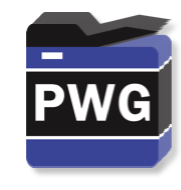
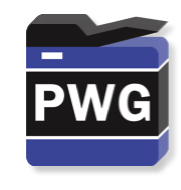
Start of changes to self-certification.
Update logos.

Update IPP pages.

Update HP company name on members page.

diff --git a/ipp/index.html b/ipp/index.html
@@ -27,7 +27,9 @@
     </ul>
 
     <h2><a name="MINUTES">Conference Call and Meeting Minutes</a></h2>
-    <p class="PWGList"><a href="http://ftp.pwg.org/pub/pwg/ipp/minutes/ippv2-concall-minutes-20150921.pdf">September 21, 2015</a>
+    <p class="PWGList"><a href="http://ftp.pwg.org/pub/pwg/ipp/minutes/ippv2-concall-minutes-20151005.pdf">October 5, 2015</a>
+    &middot;
+    <a href="http://ftp.pwg.org/pub/pwg/ipp/minutes/ippv2-concall-minutes-20150921.pdf">September 21, 2015</a>
     &middot;
     <a href="http://ftp.pwg.org/pub/pwg/ipp/minutes/ippv2-concall-minutes-20150831.pdf">August 31, 2015</a>
     &middot;
@@ -113,7 +115,7 @@
     <h3>Drafts</h3>
     <p><a href="http://ftp.pwg.org/pub/pwg/ipp/wd/wd-ipp20-20150922-rev.pdf">IPP 2.0, 2.1, and 2.2 (September 22, 2015)</a><br>
     &nbsp;&nbsp;&nbsp;&nbsp;<a href="http://ftp.pwg.org/pub/pwg/ipp/wd/lcrc-ipp20.txt">Last Call Comments</a><br>
-    <a href="http://ftp.pwg.org/pub/pwg/ipp/wd/wd-ippeveselfcert10-20150415-rev.pdf">IPP Everywhere Self-Certification Manual 1.0 (April 15, 2015)</a><br>
+    <a href="http://ftp.pwg.org/pub/pwg/ipp/wd/wd-ippeveselfcert10-20151009-rev.pdf">IPP Everywhere Self-Certification Manual 1.0 (October 9, 2015)</a><br>
 <!--    &nbsp;&nbsp;&nbsp;&nbsp;<a href="http://ftp.pwg.org/pub/pwg/ipp/wd/sw-ippeveselfcert10-20140826-osx.dmg">BETA Tools for Mac OS X 10.9</a><br>
     &nbsp;&nbsp;&nbsp;&nbsp;<a href="http://ftp.pwg.org/pub/pwg/ipp/wd/sw-ippeveselfcert10-20140826-rhel.tar.gz">BETA Tools for Red Hat Enterprise Linux 7 (64-bit Intel)</a><br>
     &nbsp;&nbsp;&nbsp;&nbsp;<a href="http://ftp.pwg.org/pub/pwg/ipp/wd/sw-ippeveselfcert10-20140826-ubuntu.tar.gz">BETA Tools for Ubuntu 14.04 LTS (64-bit)</a><br>
@@ -169,7 +171,7 @@
     <a href="http://tools.ietf.org/html/rfc2568">RFC 2568</a>: Rational for the Structure of the Model and Protocol for the Internet Printing Protocol<br>
     <a href="http://tools.ietf.org/html/rfc2569">RFC 2569</a>: Mapping between LPD and IPP Protocols<br>
     <a href="http://tools.ietf.org/html/rfc2616">RFC 2616</a>: Hypertext Transfer Protocol -- HTTP/1.1 (replaced by RFC 723x)<br>
-    <a href="http://tools.ietf.org/html/rfc2617">RFC 2617</a>: HTTP Authentication: Basic and Digest Access Authentication<br>
+    <a href="http://tools.ietf.org/html/rfc2617">RFC 2617</a>: HTTP Authentication: Basic and Digest Access Authentication (replaced by RFC 7616 and 7617)<br>
     <a href="http://tools.ietf.org/html/rfc2707">RFC 2707</a>: Job Monitoring MIB - V1.0<br>
     <a href="http://tools.ietf.org/html/rfc2708">RFC 2708</a>: Job Submission Protocol Mapping Recommendations for the Job Monitoring MIB<br>
     <a href="http://tools.ietf.org/html/rfc2817">RFC 2817</a>: Upgrading to TLS Within HTTP/1.1<br>
@@ -217,7 +219,10 @@
     <a href="http://tools.ietf.org/html/rfc7540">RFC 7540</a>: Hypertext Transfer Protocol Version 2 (HTTP/2)<br>
     <a href="http://tools.ietf.org/html/rfc7541">RFC 7541</a>: HPACK: Header Compression for HTTP/2</p>
 
-    <p><a href="http://tools.ietf.org/html/rfc7612">RFC 7612</a>: LDAP Schema for Printer Services</p>
+    <p><a href="http://tools.ietf.org/html/rfc7612">RFC 7612</a>: LDAP Schema for Printer Services<br>
+    <a href="http://tools.ietf.org/html/rfc7615">RFC 7615</a>: HTTP Authentication-Info and Proxy-Authentication-Info Response Header Fields<br>
+    <a href="http://tools.ietf.org/html/rfc7616">RFC 7616</a>: HTTP Digest Access Authentication<br>
+    <a href="http://tools.ietf.org/html/rfc7617">RFC 7617</a>: The 'Basic' HTTP Authentication Scheme</p>
 
 
     <h2><a name="WHITEPAPERS">Whitepapers</a></h2>

diff --git a/ipp/everywhere.html b/ipp/everywhere.html
@@ -12,9 +12,9 @@
 
     <br clear="all">
     <h2>Printer Self-Certification Manual and Tools</h2>
-    <p>v1.0 (<em>Last updated April 15, 2015</em>):</p>
+    <p>v1.0 (<em>Last updated October 9, 2015</em>):</p>
     <ul>
-      <li><a href="http://ftp.pwg.org/pub/pwg/ipp/wd/wd-ippeveselfcert10-20150415.pdf">Printer Self-Certification Manual 1.0 (Prototype Draft)</a></li>
+      <li><a href="http://ftp.pwg.org/pub/pwg/ipp/wd/wd-ippeveselfcert10-20151009.pdf">Printer Self-Certification Manual 1.0 (Stable Draft)</a></li>
       <li><a href="http://ftp.pwg.org/pub/pwg/ipp/wd/sw-ippeveselfcert10-20140826-osx.dmg">Mac OS X Software 1.0 (Beta)</a></li>
       <li><a href="http://ftp.pwg.org/pub/pwg/ipp/wd/sw-ippeveselfcert10-20140826-rhel.tar.gz.">Red Hat Enterprise Linux Software 1.0 (Beta)</a></li>
       <li><a href="http://ftp.pwg.org/pub/pwg/ipp/wd/sw-ippeveselfcert10-20140826-ubuntu.tar.gz">Ubuntu LTS Software 1.0 (Beta)</a></li>

diff --git a/pwg-logos/members.html b/pwg-logos/members.html
@@ -62,7 +62,7 @@
 	  <td><img src="fujixerox.gif" alt="Fuji Xerox" width="128" height="28"><br><a href="http://www.fujixerox.co.jp/eng/">Fuji Xerox Co., Ltd.</td>
 	</tr>
 	<tr>
-	  <td><img src="HP_Blue_RGB_150_SM.png" alt="Hewlett-Packard" width="75" height="75"><br><a href="http://www.hp.com">Hewlett-Packard</a></td>
+	  <td><img src="HP_Blue_RGB_150_SM.png" alt="Hewlett-Packard" width="75" height="75"><br><a href="http://www.hp.com">HP Inc.</a></td>
 	  <td><img src="High-North-Inc-logo.gif" alt="High North, Inc." width="128" height="23"><br><a href="http://sites.google.com/site/highnorthinc">High North Inc.</a></td>
 	</tr>
 	<tr>

diff --git a/chair/meeting-info/meetings.html b/chair/meeting-info/meetings.html
@@ -37,9 +37,8 @@
 
     <tr>
       <td>November 3-5</td>
-      <td>Lexington, KY (hosted by Lexmark)<!--<br>
-      <a href="november_2015_lexington.html">Venue Info + Agenda</a><br>
-      <a href="">RSVP Survey</a>--></td>
+      <td>None (WebEx Virtual Face-to-Face)<br>
+      <a href="november_2015_virtual.html">Info + Agenda</a></td>
     </tr>
     </tbody>
     </table>

diff --git a/dynamo/phplib/db-printer.php b/dynamo/phplib/db-printer.php
@@ -8,7 +8,6 @@ include_once "db.php";
 
 
 $PRINTER_COLUMNS = array(
-  "submission_id" => PDO::PARAM_INT,
   "organization_id" => PDO::PARAM_INT,
   "product_family" => PDO::PARAM_STR,
   "model" => PDO::PARAM_STR,
@@ -18,9 +17,7 @@ $PRINTER_COLUMNS = array(
   "duplex_supported" => PDO::PARAM_BOOL,
   "finishings_supported" => PDO::PARAM_BOOL,
   "create_date" => PDO::PARAM_STR,
-  "create_id" => PDO::PARAM_INT,
-  "modify_date" => PDO::PARAM_STR,
-  "modify_id" => PDO::PARAM_INT
+  "create_id" => PDO::PARAM_INT
 );
 
 
@@ -31,7 +28,6 @@ class printer
   //
 
   var $id;
-  var $submission_id;
   var $organization_id;
   var $product_family;
   var $model;
@@ -42,8 +38,6 @@ class printer
   var $finishings_supported;
   var $create_date;
   var $create_id;
-  var $modify_date;
-  var $modify_id;
 
 
   //
@@ -70,7 +64,6 @@ class printer
     global $LOGIN_ID;
 
     $this->id                   = 0;
-    $this->submission_id        = 0;
     $this->organization_id      = 0;
     $this->product_family       = "";
     $this->model                = "";
@@ -81,8 +74,6 @@ class printer
     $this->finishings_supported = 0;
     $this->create_date          = "";
     $this->create_id            = $LOGIN_ID;
-    $this->modify_date          = "";
-    $this->modify_id            = $LOGIN_ID;
   }
 
 
@@ -128,14 +119,11 @@ class printer
     global $LOGIN_ID, $PRINTER_COLUMNS;
 
 
-    $this->modify_date = db_datetime();
-    $this->modify_id   = $LOGIN_ID;
-
     if ($this->id > 0)
       return (db_save($this, "printer", $this->id, $PRINTER_COLUMNS));
 
-    $this->create_date = $this->modify_date;
-    $this->create_id   = $this->modify_id;
+    $this->create_date = db_datetime();
+    $this->create_id   = $LOGIN_ID;
 
     if (($id = db_create($this, "printer", $PRINTER_COLUMNS)) === FALSE)
       return (FALSE);

diff --git a/dynamo/phplib/db-submission.php b/dynamo/phplib/db-submission.php
@@ -55,8 +55,9 @@ $REVIEWER_STATUSES = array(
 );
 
 $SUBMISSION_VERSIONS = array(
-  "org.pwg.ipp-everywhere.20150415" => "1.0 Draft (April 15, 2015)",
-  "org.pwg.ipp-everywhere.20140826" => "1.0 Draft (August 26, 2014)"
+  "org.pwg.ipp-everywhere.20151009" => "1.0 Stable (October 9, 2015)",
+  "org.pwg.ipp-everywhere.20150415" => "1.0 Interim (April 15, 2015)",
+  "org.pwg.ipp-everywhere.20140826" => "1.0 Interim (August 26, 2014)"
 );
 
 
